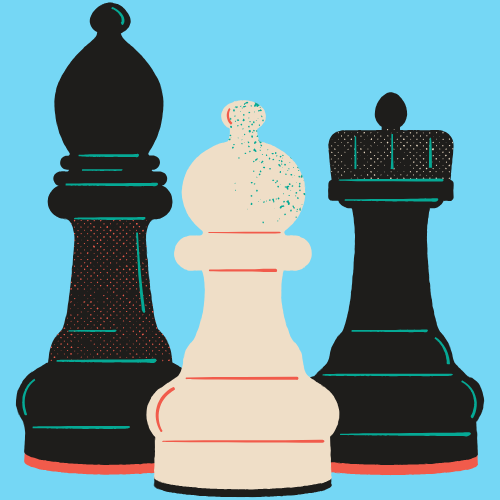
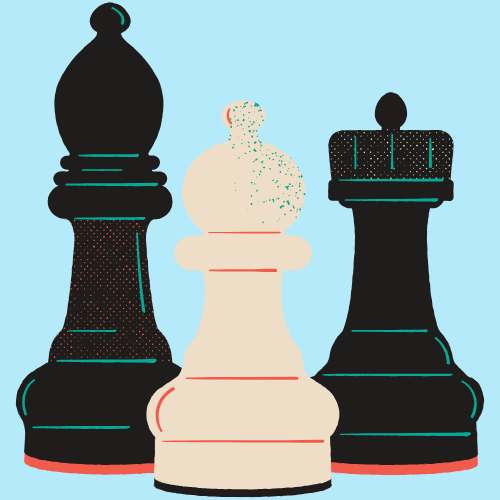
2536

diff --git a/13.Capstone_2/index.html b/13.Capstone_2/index.html
@@ -11,21 +11,43 @@
     <div class="top-container">
         <img class="top-controller " src="./top-controller.png" alt="top-controller">
         <div class="title-text">
-          <h1 class="name">I'm Fill</h1>
+          <h1 class="name1">I'm Fill</h1>
           <span></span>
-          <h2>a wanna-be <span class="pro">pro</span>grammer.&#128187 </h2>
+          <h2><span class="pro">pro</span>gramming algorithms.&#128187 </h2>
         </div>
         <img class="chess-pieces" src="./chess-pieces.png" alt="chess-pieces">
         
     </div>
     <div class="middle-container">
-      <div class="px-4 py-5 my-5 text-center">
-        <img class="d-block mx-auto mb-4" src="./loco.jpg" alt="loco" id="loco" width="180" height="180" >
-        <h1 class="display-5 fw-bold text-body-emphasis">Hello!!!</h1>
-        <div class="col-lg-6 mx-auto">
-          <p class="lead mb-4">I'm studying ECE and Computer science <br>I love sports and board games! &#127922;<br>And for sure travelling &#127748;  <span></span></p>
-          <div class="d-grid gap-2 d-sm-flex justify-content-sm-center">
+      <div class="profile">
+        <div class="px-4 py-5 my-5 text-center">
+          <img class="d-block mx-auto mb-4" src="./loco.jpg" alt="loco" id="loco" width="200" height="220" >
+          <h1 class="display-5 fw-bold text-body-emphasis">Hello!!!</h1>
+          <div class="col-lg-6 mx-auto">
+            <p class="lead mb-4">I'm studying ECE and Computer science <br>I love sports and board games! &#127922;<br>And for sure travelling &#127748;  <span></span></p>
+            <div class="d-grid gap-2 d-sm-flex justify-content-sm-center">
+            </div>
           </div>
+        </div>
+      </div> 
+      <div class="skills">
+        <h1>My skills</h1>
+        <div class="parent">
+          <div class="typing">
+            <img src="./coding-angel.gif" alt="coding-angel">
+          </div>
+          <div class="coding">
+            <h3>Design &amp; Development</h3>
+            <p>I got in touch with programming since i was in high school and loved it! What i really like about it is that there is always more to learn...  </p>
+          </div>
+          <div class="chillies">
+            <img class="chilli-img" src="./sports-goal.gif" alt="chillies-img" style="height: 300px;">
+          </div>
+          <div class="hot-wings">
+            <h3>Sports and Games</h3>
+            <p>But i can't imagine my life without sports,video games and board games that also keep me busy throughout my free time!</p>
+          </div>
+  
         </div>
       </div>
     </div>

diff --git a/13.Capstone_2/style.css b/13.Capstone_2/style.css
@@ -1,34 +1,30 @@
 .top-container{
     display: block;
     unicode-bidi: isolate;
-    background-color: #75d7f5;
+    background-color: #b4eafa;
     position: relative;
     padding-top: 100px;
     height: 700px;
 }
 body{
     text-align: center;
-    font-family:sans-serif;
-    color: #40514e;
+    font-family: "Merriweather", serif;
 }
-.name{
+.name1{
     padding-bottom: 20px;
     unicode-bidi: isolate;
-    color: rgb(40, 9, 53)6;
     font-size: 6rem;
     margin: 50px auto 0 auto;
     font-family:cursive;
 }
 
 .title-text{
-    font-size: 10rem;
     padding-top: 100px;
     display: block;
     unicode-bidi: isolate;
     text-align: center;
     font-family:monospace;
-    font: 600;
-    color: rgb(40, 9, 53);
+    color: rgba(94, 39, 146, 0.836);
 }
 .pro{
     text-decoration: underline;
@@ -66,5 +62,29 @@ p {
     margin-block-end: 1em;
     margin-inline-start: 0px;
     margin-inline-end: 0px;
+    unicode-bidi: isolate;
+}
+.parent {
+    display: grid;
+    grid-template-columns: 0.5fr 1fr;
+    grid-template-rows: repeat(1, 1fr);
+    width: 50%;
+    margin: 100px auto 0 auto;
+    text-align: left;
+    row-gap: 2rem;
+}
+h1{
+    text-align: center;
+}
+h3 {
+    color: rgb(204, 204, 51);
+    font-family: "Montserrat", sans-serif;
+    display: block;
+    font-size: 1.17em;
+    margin-block-start: 1em;
+    margin-block-end: 1em;
+    margin-inline-start: 0px;
+    margin-inline-end: 0px;
+    font-weight: bold;
     unicode-bidi: isolate;
 }
